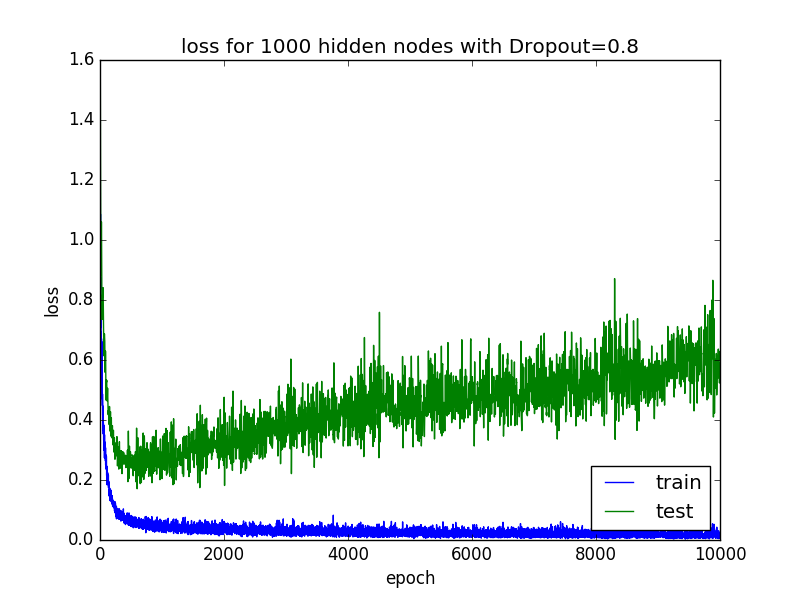
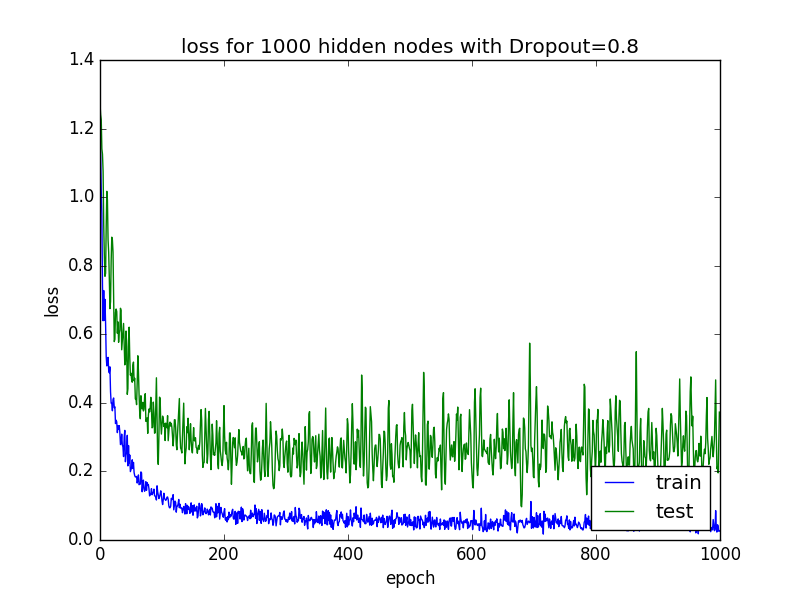
Fixed problem with train data set

Changed region(s): [[0.0625, 0.27, 0.9375, 0.93], [0.0938, 0.18, 0.125, 0.24], [0.0938, 0.09, 0.125, 0.12]]

diff --git a/Tarefa3/FC2Layer_regularization.py b/Tarefa3/FC2Layer_regularization.py
@@ -28,15 +28,14 @@ SHOW_ACC = 1
 # fix random seed for reproducibility
 SEED = 7
 numpy.random.seed(SEED)
-TRAININGPOINTSPERCENTAGE = 1
 
 # Training Options
 BATCHSIZE = 32
-EPOCH = 1000
+EPOCH = 10000
 VALIDATIONPERC = 0.15
 
 # Model Options
-l1Reg = 0.001
+l1Reg = 0.01
 l2Reg = 0.001
 dropout = 0.8
 hidden_nodes = [1000] # Vector with hidden_nodes on second layer use [x1, x2, x3, ..., xn]
@@ -87,13 +86,13 @@ def plotGraph (filename, nodes, vecTrain, vecTest, nameVec):
 dataframe = pandas.read_csv("dataset/iris.csv",header=None)
 dataset = dataframe.values
 numberOfPoints = len(dataset)
-trainPoints = int(numberOfPoints*VALIDATIONPERC)
+trainPoints = int(numberOfPoints*(1-VALIDATIONPERC))
 # training data
 X = dataset[:trainPoints,0:4].astype(float)
-Y = dataset[:trainPoints,4]
+Y = dataset[:,4]
+
 # test data
-X_test = dataset[trainPoints:,0:4]
-Y_test = dataset[trainPoints:,4]
+X_test = dataset[trainPoints:,0:4].astype(float)
 
 
 # encode class values as integers
@@ -102,13 +101,8 @@ encoder.fit(Y)
 encoded_Y = encoder.transform(Y)
 # convert integers to dummy variables (i.e. one hot encoded)
 dummy_y = np_utils.to_categorical(encoded_Y)
-print("dummy_y.shape=",dummy_y.shape)
-# encode class values as integers
-encoder.fit(Y_test)
-encoded_Y_test = encoder.transform(Y_test)
-# convert integers to dummy variables (i.e. one hot encoded)
-dummy_y_test = np_utils.to_categorical(encoded_Y_test)
-print("dummy_y_test.shape=",dummy_y_test.shape)
+dummy_y_test = dummy_y[trainPoints:,:]
+dummy_y = dummy_y[:trainPoints,:]
 
 print("----------------------------------")
 print("Using Batch =",BATCHSIZE ,"Epoch = ",EPOCH, "Validation_split = ",VALIDATIONPERC)
